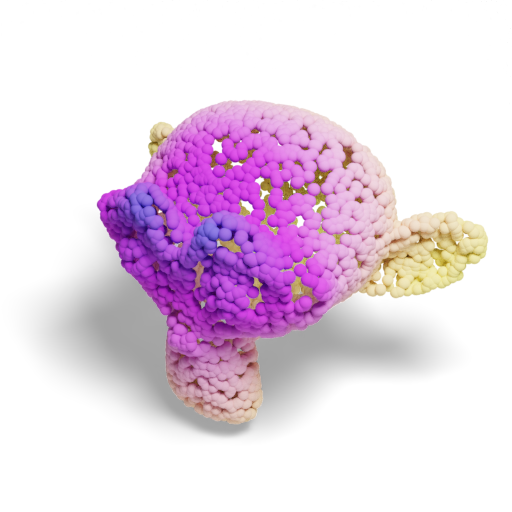
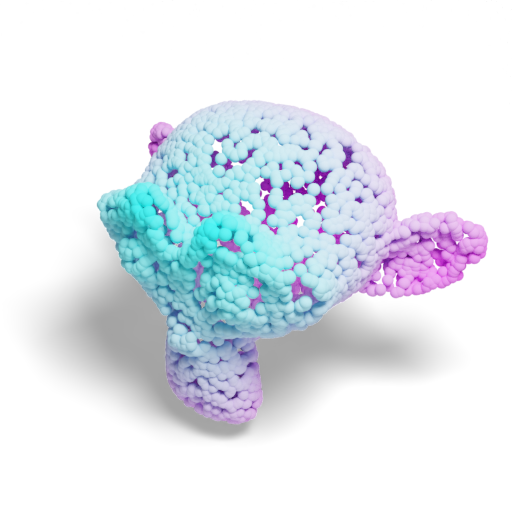
Update color option in README.md for point cloud example
- Changed `--color plasma` to `--color cool` in point cloud section.
- Noted binary difference in `pcd_color.png` files.

Changed region(s): [[0.1875, 0.1875, 0.9688, 0.8438]]

diff --git a/README.md b/README.md
@@ -62,7 +62,7 @@ changed using the `--bg_color` option.
 | Mesh                             | Point cloud                    | Background                           |
 |----------------------------------|--------------------------------|--------------------------------------|
 | ![mesh](examples/mesh_color.png) | ![pcd](examples/pcd_color.png) | ![mesh_depth](examples/bg_color.png) |
-| `--color bright_blue`            | `--pcd` `--color plasma`       | `--bg_color pale_turquoise`          |
+| `--color bright_blue`            | `--pcd` `--color cool`         | `--bg_color pale_turquoise`          |
 
 ### Background
 
